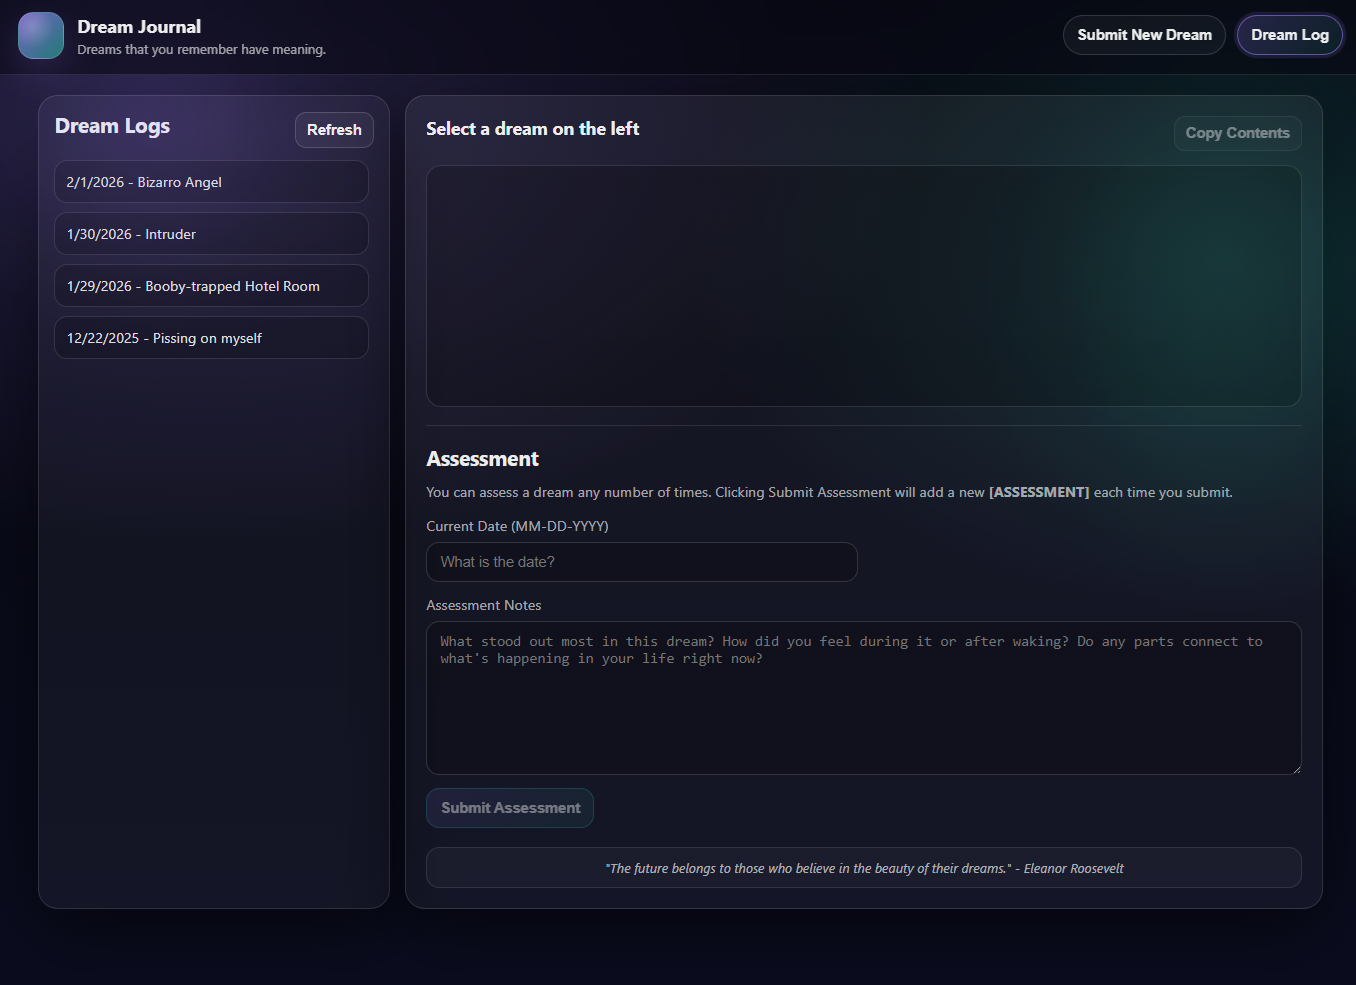
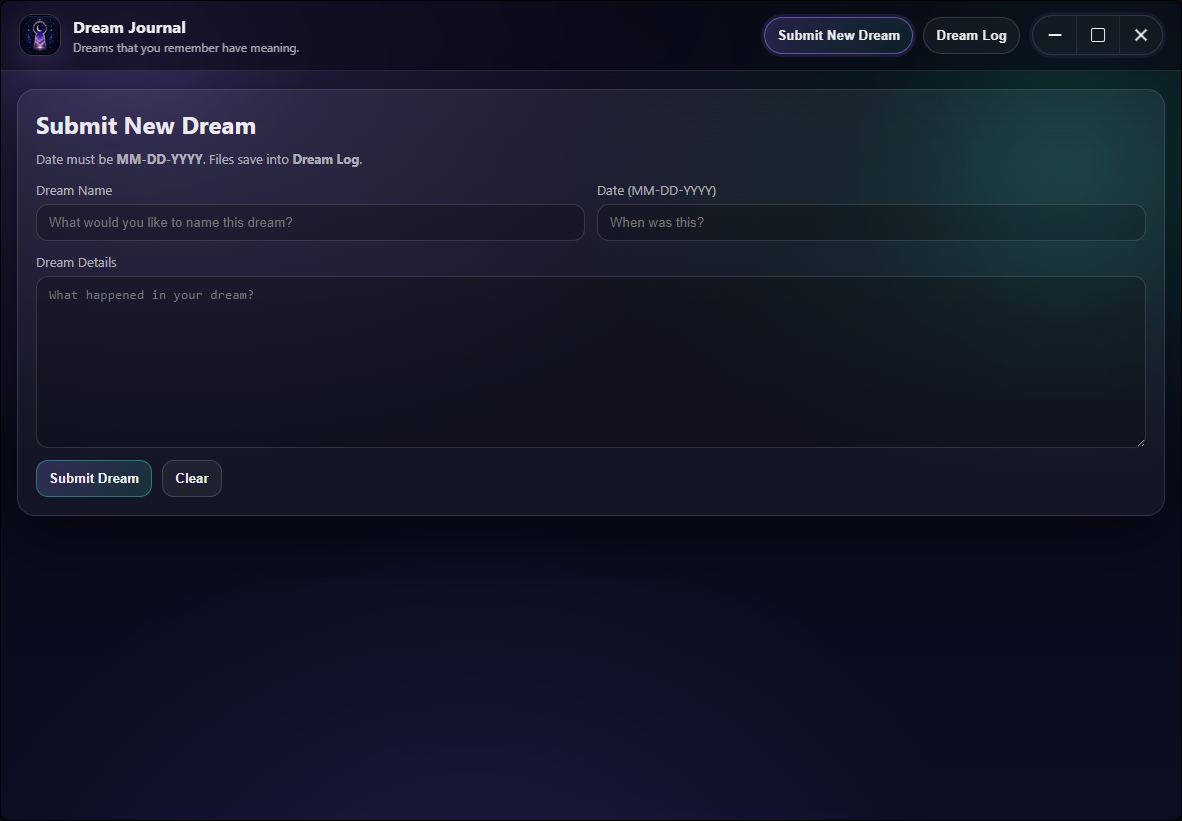
Update DreamKeeper

diff --git a/index.html b/index.html
@@ -334,7 +334,8 @@
                             ocarina-style notes with keyboard input and displays the game’s iconic clock design.</p>
                           <div class="project-actions">
                             <a class="btn" href="https://github.com/nathanarcuri-hub/MM_Clock" target="_blank">About</a>
-                            <a class="btn" href="https://github.com/nathanarcuri-hub/MM_Clock/releases" target="_blank">Download</a>
+                            <a class="btn" href="https://github.com/nathanarcuri-hub/MM_Clock/releases"
+                              target="_blank">Download</a>
                           </div>
                         </div>
                         <div class="project-tags">
@@ -412,12 +413,14 @@
                           <img src="img/projects/DreamKeeper.png" alt="Dream Journal screenshot" loading="lazy">
                         </a>
                         <div class="project-body">
-                          <h3 class="project-title">Dream Journal</h3>
-                          <p class="project-desc">A browser-based dream journal built while exploring Node servers and
-                            personal creative tools.</p>
+                          <h3 class="project-title">DreamKeeper</h3>
+                          <p class="project-desc">A standalone dream journal app for saving, reviewing, and reflecting
+                            on vivid, strange, or weirdly meaningful dreams.</p>
                           <div class="project-actions">
-                            <a class="btn" href="apps/DreamLog/DreamLog.html">About</a>
-                            <a class="btn" href="apps/DreamLog/DreamLog.zip">Download</a>
+                            <a class="btn" href="https://github.com/nathanarcuri-hub/DreamKeeper"
+                              target="_blank">About</a>
+                            <a class="btn" href="https://github.com/nathanarcuri-hub/DreamKeeper/releases"
+                              target="_blank">Download</a>
                           </div>
                         </div>
                         <div class="project-tags">